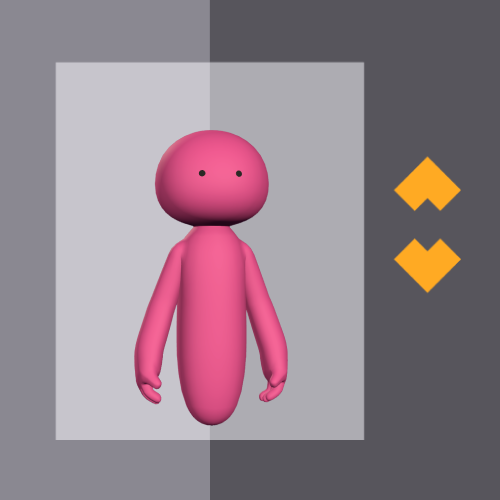
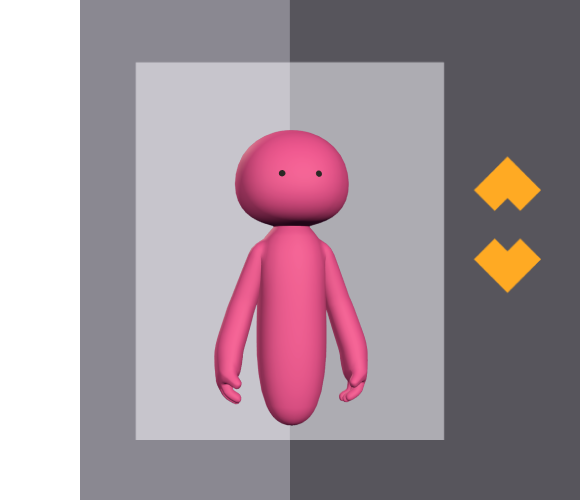
loading screen asset update

diff --git a/Assets/WebGLTemplates/BetterMinimal/index.html b/Assets/WebGLTemplates/BetterMinimal/index.html
@@ -82,22 +82,22 @@
 				var loadedImage = 'loaded.png';
 				var unloadedImage = 'unloaded.png';
 				var indicatorImage = 'Elevator.png';
-				var backgroundSize = '5%';
-				var backgroundSizeElevator = '6%';
+				var backgroundSize = '6.5%';
 				var offset = '50%';
-				var offsetElevator = '50.50%';
+				var offsetElevator = '50%';
 				var loadedVerticalPosition = '100%';
 				var unloadedVerticalPosition = '0%';
 				var indicatorVerticalPosition = (totalHeight-(indicatorBottom)/0.9)+'%';
 
 				var loadedBackgroundPosition = offset + ' ' + loadedVerticalPosition + ' / ' + backgroundSize + ' ' + loadedTop + '% no-repeat';
 				var unloadedBackgroundPosition = offset + ' ' + unloadedVerticalPosition + ' / ' + backgroundSize + ' ' + (100-unloadedBottom) + '% no-repeat';
-				var indicatorBackgroundPosition = offsetElevator + ' ' + indicatorVerticalPosition + ' / ' + backgroundSizeElevator + ' ' + indicatorHeight + '% no-repeat';
+				var indicatorBackgroundPosition = offset + ' ' + indicatorVerticalPosition + ' / ' + backgroundSize + ' ' + indicatorHeight + '% no-repeat';
 
 				canvas.style.background = 'url(' + loadedImage + ') ' + loadedBackgroundPosition + ', ' +
 					'url(' + unloadedImage + ') ' + unloadedBackgroundPosition + ', ' +
 					'url(' + indicatorImage + ') ' + indicatorBackgroundPosition;
 			}
+
 
 			function onResize() {
 				var container = canvas.parentElement;
